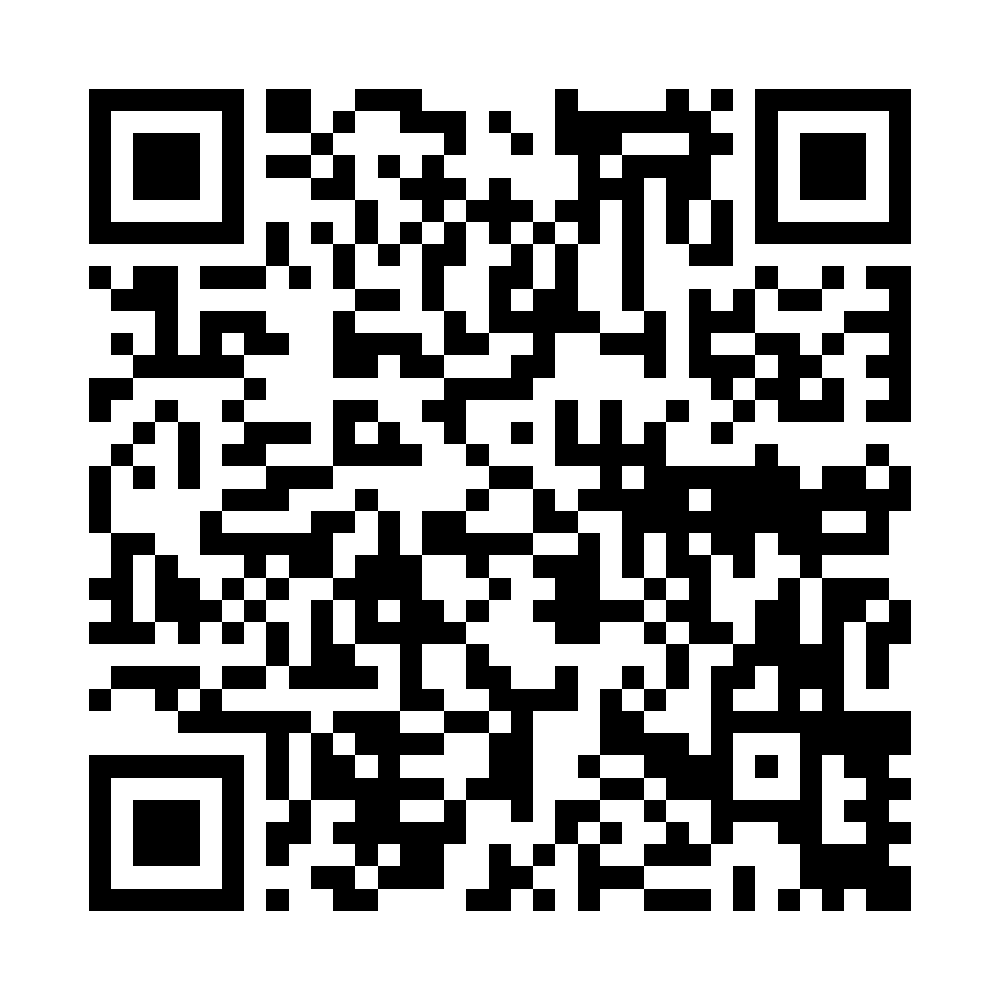
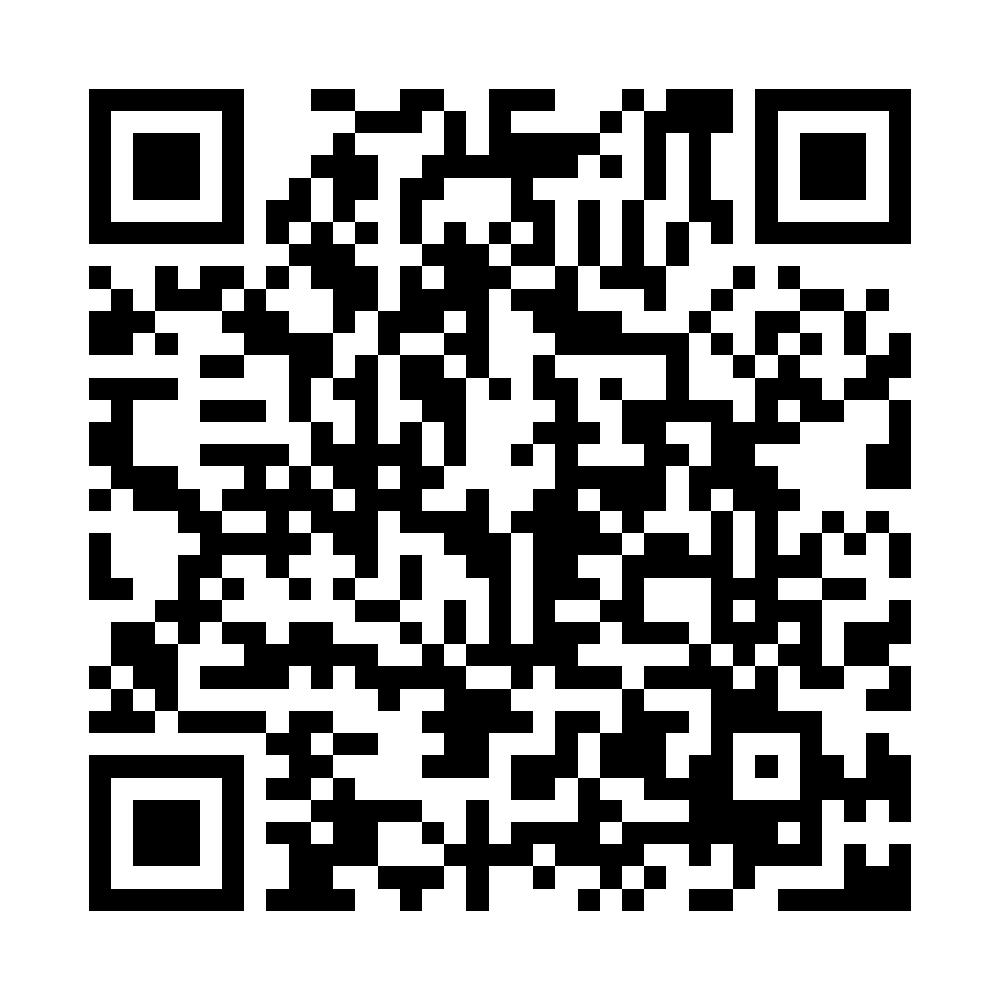
nowe kody

Changed region(s): [[0.062, 0.062, 0.93, 0.93], [0.682, 0.093, 0.744, 0.155]]

diff --git a/index.html b/index.html
@@ -114,7 +114,8 @@
       <p>Dzieło 12</p>
     </div>
     <div class="qr-item">
-  <a href="obiekt.html?model=obrazy/rozanski1.glb">
+  <a href="https://wiktoriagit.github.io/demoar/obiekt.html?model=obrazy/rozanski1.glb
+">
     <img src="qrcodes/r1.png" alt="QR Różański 1">
   </a>
   <p>Różański – Dzieło 1</p>
